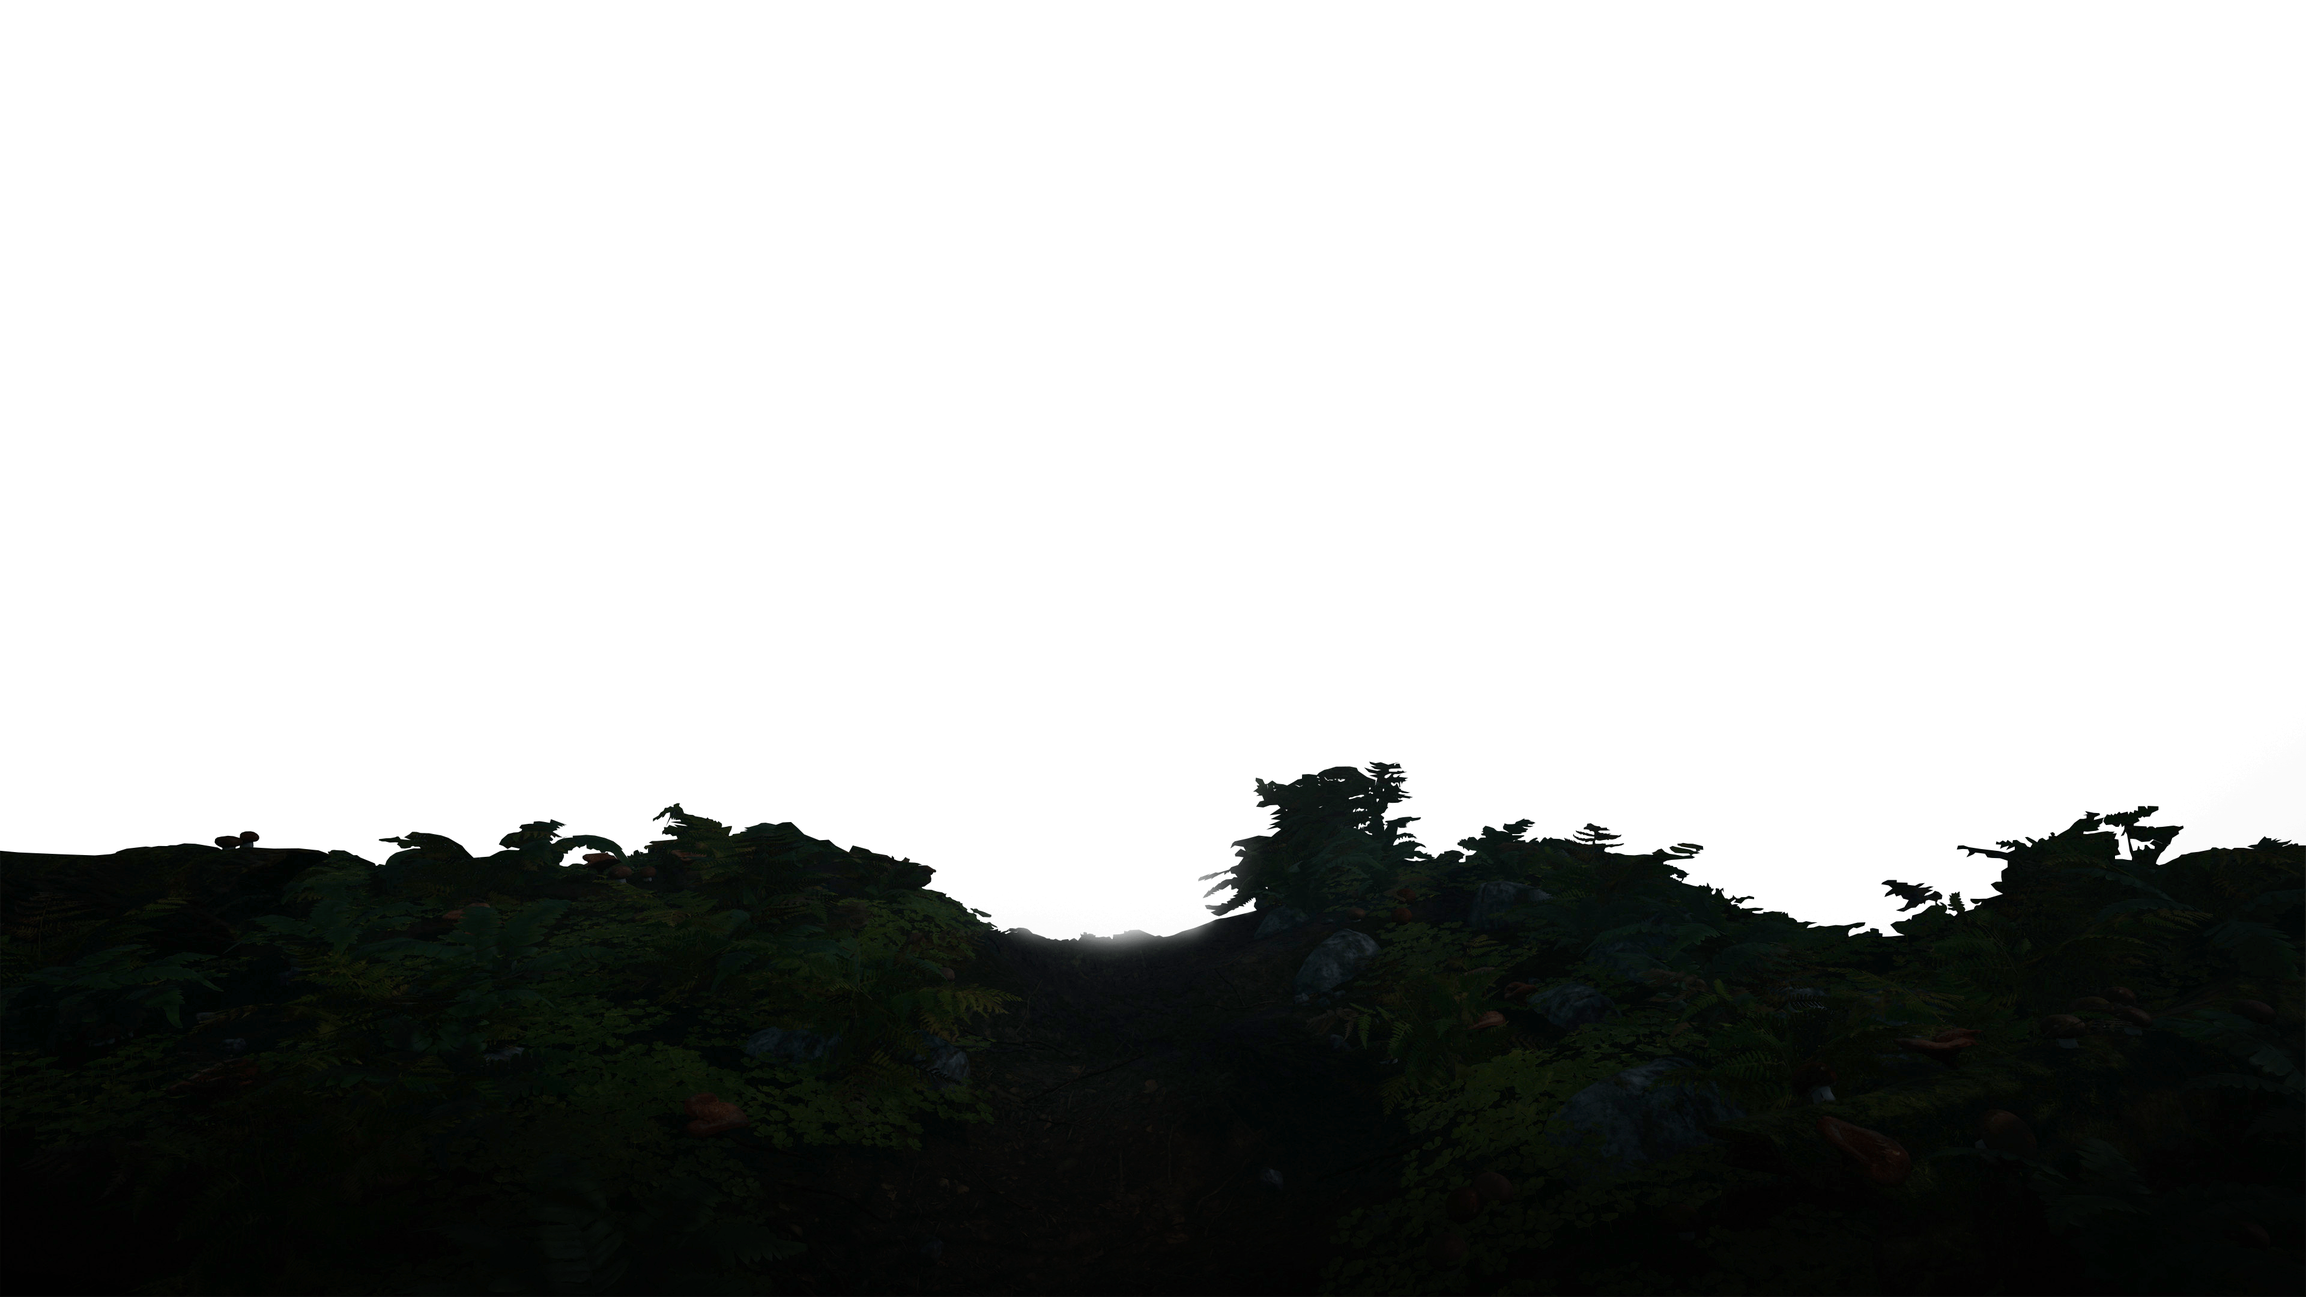
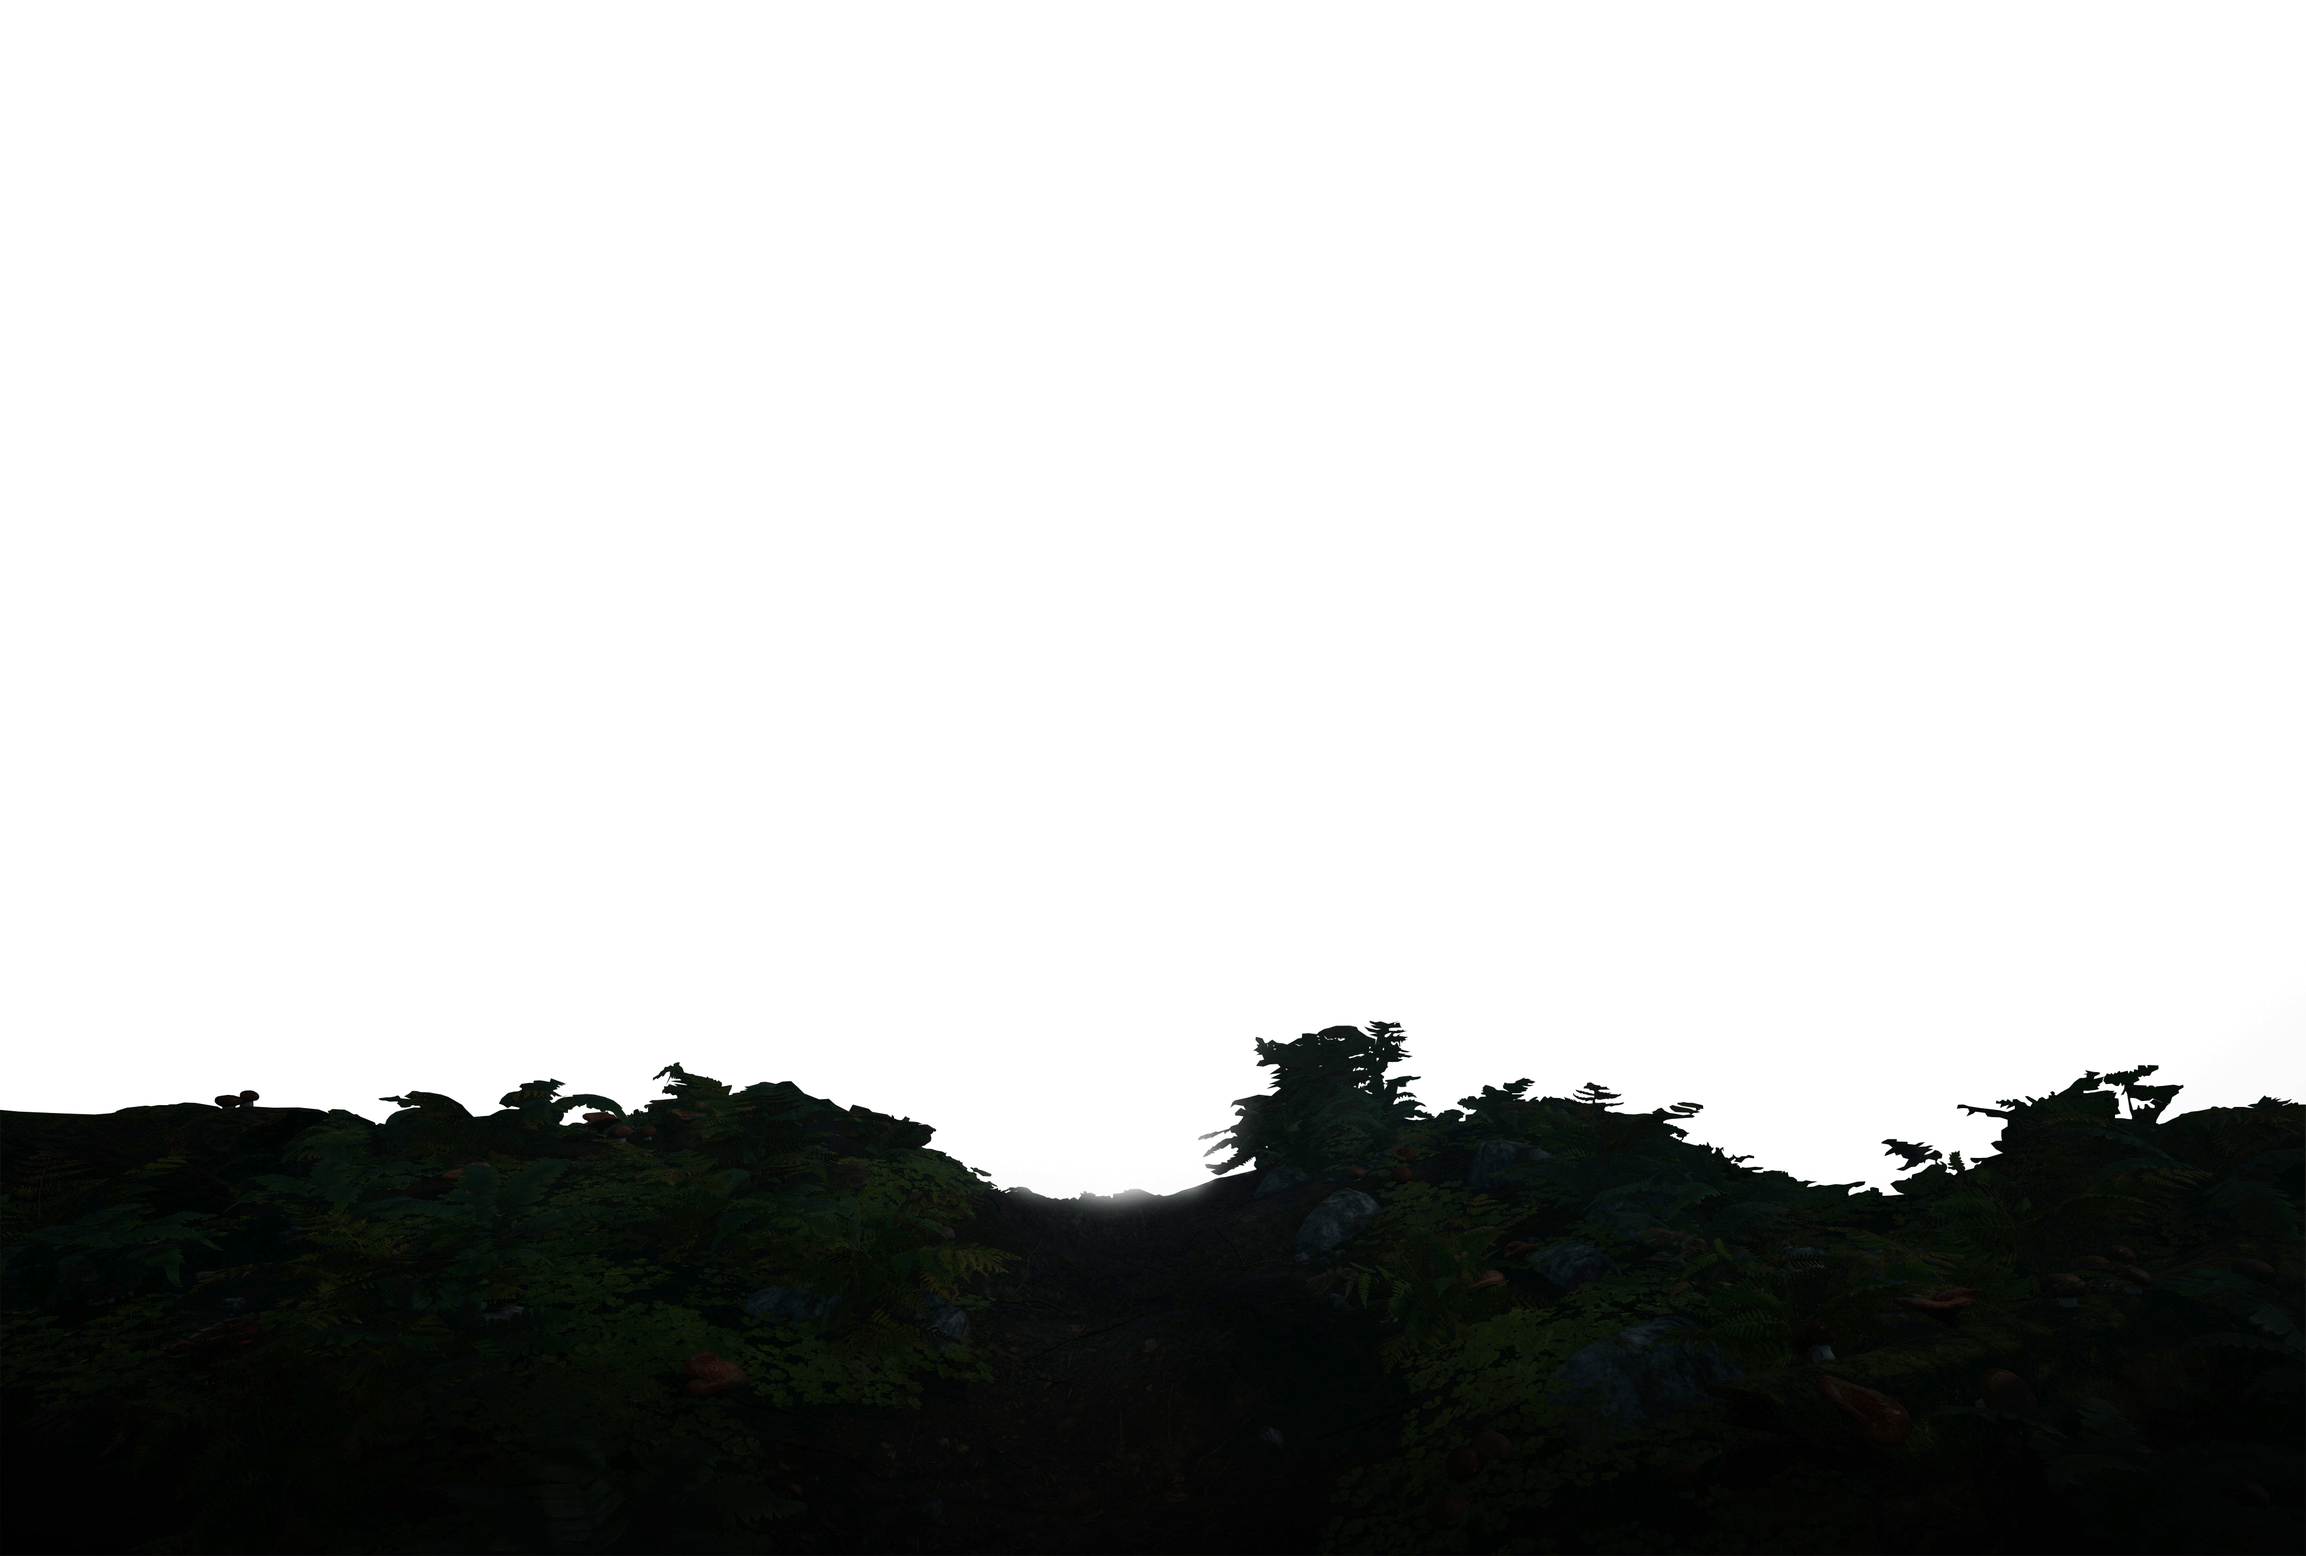
inter

Changed region(s): [[0.0, 0.5894, 1.0, 0.8065]]

diff --git a/front/src/widgets/Main/Main.module.scss b/front/src/widgets/Main/Main.module.scss
@@ -1,6 +1,5 @@
 .mainWrapper {
     position: relative;
-    background-image: url(./const/forest-src.jpg);
     background-repeat: no-repeat;
     background-position: center;
     background-size: cover;
@@ -8,7 +7,7 @@
     &::after {
         content: "";
         position: absolute;
-        z-index: 2;
+        z-index: 10;
         width: 100%;
         height: calc(var(--index) * 10);
         background-image: url(./const/ground.png);
@@ -43,34 +42,48 @@
 .layerBase {
     transform: translate3d(0, calc(var(--scrollTop) / 1.6), 0);
     z-index: 0;
+
+    img {
+        position: absolute;
+        min-height: 100vh;
+        bottom: 0;
+        right: 0;
+        left: 0;
+        object-fit: cover;
+        object-position: bottom;
+    }
 }
 
 .layerMiddle {
     transform: translate3d(0, calc(var(--scrollTop) / 2.5), 0);
+    background-position: bottom;
 }
 
 .layerFront {
     transform: translate3d(0, calc(var(--scrollTop) / 5.7), 0);
+    background-position: bottom;
+    z-index: 10;
 }
 
 .textContainer {
-    z-index: 1;
     transform: translate3d(0, calc(var(--scrollTop) / 2), 0);
     transition: var(--transition);
     will-change: transform;
     display: flex;
     flex-direction: column;
     align-items: center;
-    gap: 20px;
-    margin: -40px 20px 0;
-    position: relative;
+    margin: -40px 10px 0;
+    z-index: 300;
+    padding-bottom: 20px;
 }
 
 .title {
     width: 550px;
+    margin-bottom: 20px;
 }
 
-.caption {
+.caption,
+.est {
     width: 320px;
 }
 
@@ -79,16 +92,17 @@
     top: -170px;
     z-index: -1;
     width: 100%;
-    height: 100%;
-    min-height: 400px;
+    max-width: 360px;
+    min-height: 100%;
     background-repeat: no-repeat;
     background-position: top center;
     transform: translate3d(0, calc(var(--scrollTop) / 6), 0);
     transition: var(--transition);
+    will-change: transform;
 }
 
 .scroll {
-    z-index: 2;
+    z-index: 10;
     position: absolute;
     bottom: 50px;
     cursor: pointer;
@@ -102,8 +116,11 @@
     left: 0;
     right: 0;
     background-repeat: no-repeat;
+    background-size: cover;
     z-index: -1;
     margin-bottom: -100vh;
+    background-color: rgb(75, 75, 75);
+    background-blend-mode: multiply;
 }
 
 @media (min-width: 1000px) {

diff --git a/front/src/layouts/Layout.scss b/front/src/layouts/Layout.scss
@@ -10,6 +10,8 @@ body {
     color: var(--color-base);
     overflow-y: auto;
     overflow-x: hidden;
+    background-repeat: no-repeat;
+    background-attachment: fixed;
 }
 
 body::-webkit-scrollbar-track {
@@ -57,7 +59,7 @@ a:active {
 :root {
     --color-accent: #d8bd8e;
     --color-base: #e5e5e5;
-    --color-bg: #081302;
+    --color-bg: #000000;
     --color-darkgray: rgb(49, 49, 49);
     --color-gray: rgb(128, 128, 128);
     --color-lightgray: rgb(189, 189, 189);

diff --git a/front/src/widgets/Portfolio/Portfolio.tsx b/front/src/widgets/Portfolio/Portfolio.tsx
@@ -32,7 +32,7 @@ export function Portfolio({
     }
     const link = language === defaultLanguage ? "/portfolio" : `/${language}/portfolio`
     return (
-        <Section title={title}>
+        <Section title={title} wrapperClassName={styles.wrapper}>
             <ModalGallery
                 isOpen={isOpen}
                 onClose={() => setIsOpen(false)}

diff --git a/front/src/widgets/Header/ui/Header.module.css b/front/src/widgets/Header/ui/Header.module.css
@@ -5,7 +5,7 @@
     display: flex;
     justify-content: center;
     align-items: center;
-    z-index: 3;
+    z-index: 14;
     background-color: #05081630;
     padding-right: 19px;
 }

diff --git a/front/src/widgets/Header/ui/Languages/Languages.module.scss b/front/src/widgets/Header/ui/Languages/Languages.module.scss
@@ -1,4 +1,5 @@
 .languages {
+    position: relative;
     display: flex;
     align-items: center;
     margin-left: 20px;

diff --git a/front/src/widgets/Portfolio/Portfolio.module.scss b/front/src/widgets/Portfolio/Portfolio.module.scss
@@ -1,3 +1,7 @@
 .link {
     margin: 0 auto;
 }
+
+.wrapper {
+    padding-top: 80px;
+}
